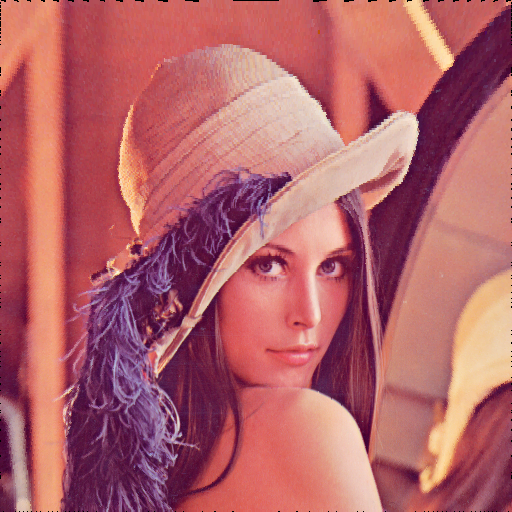
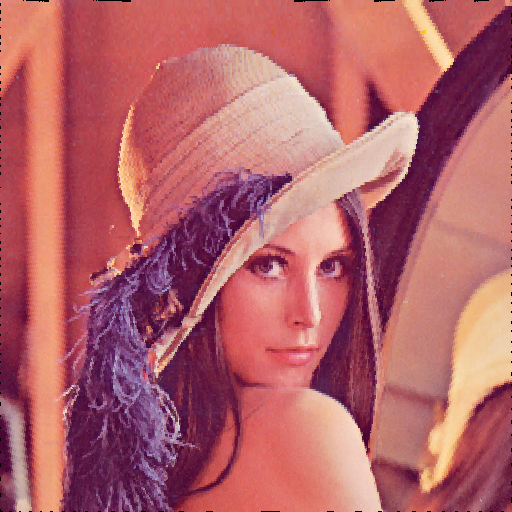
Cleaned up dome_projection.py and
tested it by warping and unwarping an image. The results looked the same
as they did before the code clean up.

diff --git a/dome_projection.py b/dome_projection.py
@@ -3,17 +3,16 @@
 
 """
 This class modifies (a.k.a. warps) images from OpenGL for display on a
-hemispherical screen in a virtual reality system.  A hemispherical mirror is
+hemispherical screen in a virtual reality system.  A quarter sphere mirror is
 used to allow a single projector to achieve a very wide field of view.  The
-goal in our mouse experiments is to achieve a minimum field of view of -20
-degrees to 60 degrees verically and -135 to 135 degrees horizontally.  The
+goal in our mouse experiments is to achieve a minimum field of view of -15
+degrees to 75 degrees verically and -135 to 135 degrees horizontally.  The
 OpenGL images are modified to eliminate the distortion introduced by the
-hemispherical mirror and the hemispherical screen.  This is achieved by a
+quarter sphere mirror and the hemispherical screen.  This is achieved by a
 pixel level mapping which sets the RGB values for each projector pixel using
 the RGB values of the pixel in the OpenGL image which is in the same direction
 from the viewer's point of view.  The viewer in the dome display is the mouse
-and the viewers in OpenGL are virtual cameras.  
-"""
+and the viewers in OpenGL are virtual cameras.  """
 
 DEBUG = False
 
@@ -47,7 +46,7 @@ class DomeProjection:
     virtual camera and screen.
     All vectors in the OpenGL world are relative to the virtual camera and
     all vectors in the dome display setup are relative to the center of the
-    hemispherical mirror.
+    mirror.
     """
     def __init__(self,
                  screen_height = [1.0, 1.0, 1.0],
@@ -264,7 +263,7 @@ class DomeProjection:
             each OpenGL virtual camera towards all of the pixels in its image.
             """
             self._camera_view_directions = \
-                [flat_display_directions(self._screen_height[i],
+               [flat_display_directions(self._screen_height[i],
                                          self._screen_width[i],
                                          self._image_pixel_height[i],
                                          self._image_pixel_width[i],
@@ -325,7 +324,6 @@ class DomeProjection:
                     # the mirror and missed the dome
                     self._projector_mask[row, column] = 0
                     self._animal_view_directions[row, column] = None
-
 
 
     def dome_display_direction(self, u, v):
@@ -456,35 +454,6 @@ class DomeProjection:
         animal_view_direction = animal_view_vector/magnitude
 
         return animal_view_direction
-
-
-    def _calc_projector_focal_point(self):
-        """
-        Calculate the position of the projector's focal point.  The projector
-        image is horizontally centered on the mirror so the x-component
-        of the focal point's position is zero.  Calculate the intersection
-        point of the lines along the top and bottom of the projected light to
-        get the focal point's y and z coordinates.
-        """
-        # calculate slope of line along top of projected light
-        upper_z1 = self._first_projector_image[0][2]
-        upper_z2 = self._second_projector_image[0][2]
-        y1 = self._first_projector_image[0][1]
-        y2 = self._second_projector_image[0][1]
-        upperSlope = (upper_z2 - upper_z1)/(y2 - y1)
-
-        # calculate slope of line along bottom of projected light
-        lower_z1 = self._first_projector_image[2][2]
-        lower_z2 = self._second_projector_image[2][2]
-        lowerSlope = (lower_z2 - lower_z1)/(y2 - y1)
-
-        # calculate y and z where the lines intersect
-        a = array([[upperSlope, -1], [lowerSlope, -1]])
-        b = array([upperSlope*y1 - upper_z1, lowerSlope*y1 - lower_z1])
-        [y, z] = linalg.solve(a, b)
-        projector_focal_point = array([0, y, z])
-
-        return projector_focal_point
 
 
     def _calc_contributing_pixels(self):
@@ -653,35 +622,6 @@ class DomeProjection:
         image.save(filename, "png")
 
 
-    def get_mirror_radius(self):
-        return self._mirror_radius
-
-
-    def get_dome_radius(self):
-        return self._dome_radius
-
-
-    def get_dome_position(self):
-        return self._dome_center
-
-
-    def get_animal_position(self):
-        return self._animal_position
-
-
-    def get_frustum_parameters(self):
-        """
-        This funciton calculates the y and z coordinates of the projector's focal
-        point along with it's horizontal field of view, and it's vertical throw.
-        """
-        y = self._projector_focal_point[1]
-        z = self._projector_focal_point[2]
-        theta = self._projector_theta
-        vertical_offset = self._projector_vertical_offset
-
-        return [theta, vertical_offset, y, z]
-
-
     def get_parameters(self):
         """ return a dictionary of parameters """
         parameters = dict(image_pixel_width = self._image_pixel_width,
@@ -828,73 +768,4 @@ def flat_display_direction(u, v, screen_height, screen_width,
     direction = vector_to_pixel / linalg.norm(vector_to_pixel)
 
     return direction
-
-
-###############################################################################
-# Functions called by dome_calibration.py and domecal.py
-###############################################################################
-
-def calc_projector_images(y, z, theta, vertical_offset):
-    """
-    Calculate the two projector_image parameters that were originally used to
-    characterize the projector frsutum.  This function is only here to
-    facillitate sending parameter values to Jian who ported the dome_projection
-    class to C++ when it used these parameters.
-    """
-    # distance to first image, chosen to match measurements
-    y1 = 0.436
-    # calculate x from theta and the distance between the focal point and image
-    x1 = (y - y1) * tan(theta)
-    # calculate z by assuming a 16:9 aspect ratio 
-    z1_low = (y - y1)*vertical_offset + z
-    z1_high = z1_low + 2 * 9.0/16.0 * x1
-    image1 = [[ -x1,  y1,  z1_high ],
-              [  x1,  y1,  z1_high ],
-              [  x1,  y1,  z1_low ],
-              [ -x1,  y1,  z1_low ]]
-
-    # do it again for image2
-    y2 = 0.265
-    x2 = (y - y2) * tan(theta)
-    slope = vertical_offset
-    z2_low = z + slope * (y - y2)
-    z2_high = z2_low + 2 * 9.0/16.0 * x2
-    image2 = [[ -x2,  y2,  z2_high ],
-              [  x2,  y2,  z2_high ],
-              [  x2,  y2,  z2_low ],
-              [ -x2,  y2,  z2_low ]]
-    
-    return [image1, image2]
-
-
-def calc_frustum_parameters(image1, image2):
-    """
-    Inverse of calc_projector_images.
-    This funciton calculates the y and z coordinates of the projector's focal
-    point along with it's horizontal field of view, and it's vertical throw.
-    This is done to reduce the degrees of freedom to the minimum necessary for
-    parameter estimation using SciPy's minimization routine.
-    """
-    # calculate vertical_offset
-    y1 = image1[1][1]
-    y2 = image2[1][1]
-    z1_low = image1[2][2]
-    z2_low = image2[2][2]
-    slope = (z2_low - z1_low) / (y1 - y2)
-    vertical_offset = slope
-
-    # calculate theta
-    x1 = image1[1][0]
-    x2 = image2[1][0]
-    theta = arctan((x2 - x1) / (y1 - y2))
-
-    # calculate y
-    y = y1 + x1 / tan(theta)
-
-    # calculate z
-    slope = vertical_offset
-    z = z1_low - slope * (y - y1)
-    
-    return [y, z, theta, vertical_offset]
-
 

diff --git a/warp_image.py b/warp_image.py
@@ -6,7 +6,7 @@ from dome_projection import DomeProjection
 import sys
 import re
 
-DEBUG = False
+DEBUG = True
 
 # Choose a VR system, rat or mouse.
 #system = "rat"
@@ -32,8 +32,8 @@ if system == "rat":
         "distance_to_screen": [0.3*image_size[1]]*num_images,
         "pitch": [10]*num_images,
         "yaw": yaw,
-        "image_pixel_width": [image_size[0]]*3,
-        "image_pixel_height": [image_size[1]]*3,
+        "image_pixel_width": [image_size[0]]*num_images,
+        "image_pixel_height": [image_size[1]]*num_images,
         "projector_pixel_width": 1920,
         "projector_pixel_height": 1080
     }
@@ -50,11 +50,11 @@ elif system == "mouse":
         "projector_vertical_offset": 0.211,
         "screen_height": [image_size[1]]*num_images,
         "screen_width": [image_size[0]]*num_images,
-        "distance_to_screen": [2.5*image_size[1]]*num_images,
+        "distance_to_screen": [1.0*image_size[1]]*num_images,
         "pitch": [10]*num_images,
         "yaw": yaw,
-        "image_pixel_width": [image_size[0]]*3,
-        "image_pixel_height": [image_size[1]]*3,
+        "image_pixel_width": [image_size[0]]*num_images,
+        "image_pixel_height": [image_size[1]]*num_images,
         "projector_pixel_width": 1280,
         "projector_pixel_height": 720
     }
@@ -79,7 +79,7 @@ for filepath in sys.argv[1:]:
         dome = DomeProjection(**parameters(dome_image_size, num_images, yaw))
         print "Done initializing dome"
     
-    output_image = dome.warp_image_for_dome([input_image]*3)
+    output_image = dome.warp_image_for_dome([input_image]*num_images)
     
     # save warped image
     output_image.save(directory + "warped_" + filename, filetype)
